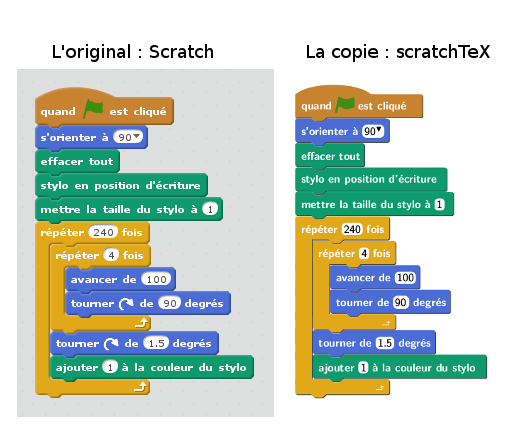
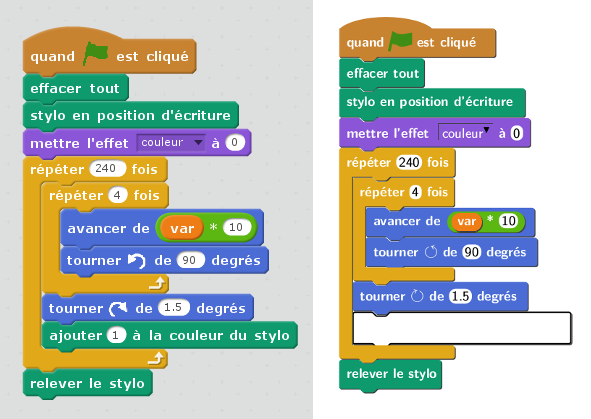
update

diff --git a/main.tex b/main.tex
@@ -249,17 +249,16 @@
   \blockflag
   \block{stylo}{effacer tout }
   \block{stylo}{stylo en position d'écriture}
-  \block{stylo}{mettre la taille du stylo à \nfield{1}}
+	\block{apparence}{mettre l'effet \lfield{couleur} à \nfield{0} }
   \repeatbegin{répéter \nfield{240} fois }
   \repeatbegin{répéter \nfield{4} fois }
-  \block{mouvement}{avancer de \nfield{100} }
+	\block{mouvement}{avancer de \tfield*{operateurs}{\tfield{donnees}{var} * \nfield{10} } \ }
 	\block{mouvement}{tourner \larrow de \nfield{90} degrés }
-  \block*{BLOC À COMPLÉTER }
-  \block{stylo}{effacer tout }
   \repeatend
   \block{mouvement}{tourner \rarrow de \nfield{1.5} degrés }
+  \block*{BLOC VIDE À COMPLÉTER }
   \repeatend
-  \block{stylo}{ajouter \nfield{1} à la couleur du stylo}
+  \block{stylo}{relever le stylo}
 \end{pspicture}
 %
 \xshift=0pt       % pt will be removed : value is xunit

diff --git a/README.md b/README.md
@@ -20,17 +20,18 @@ Voici un exemple de résultat et le code correspondant, ci-dessous.
 
 Le code
 
-    \blockFlag
-    \block{mouvement}{s'orienter à \field*{90}}
+    \blockflag
     \block{stylo}{effacer tout }
     \block{stylo}{stylo en position d'écriture}
-    \block{stylo}{mettre la taille du stylo à \field{1}}
-    \begin{blockLoop}{répéter \field{240} fois }
-      \begin{blockLoop}{répéter \field{4} fois }
-        \block{mouvement}{avancer de \field{100} }
-        \block{mouvement}{tourner de \field{90} degrés}
-      \end{blockLoop}
-      \block{mouvement}{tourner de \field{1.5} degrés}
-      \block{stylo}{ajouter \field{1} à la couleur du stylo}
-    \end{blockLoop}
+    \block{apparence}{mettre l'effet \lfield{couleur} à \nfield{0} }
+    \repeatbegin{répéter \nfield{240} fois }
+    \repeatbegin{répéter \nfield{4} fois }
+    \block{mouvement}{avancer de 
+            \tfield*{operateurs}{\tfield{donnees}{var} * \nfield{10} } \ }
+    \block{mouvement}{tourner \larrow de \nfield{90} degrés }
+    \repeatend
+    \block{mouvement}{tourner \rarrow de \nfield{1.5} degrés }
+    \block*{BLOC VIDE À COMPLÉTER }
+    \repeatend
+    \block{stylo}{relever le stylo}
 
